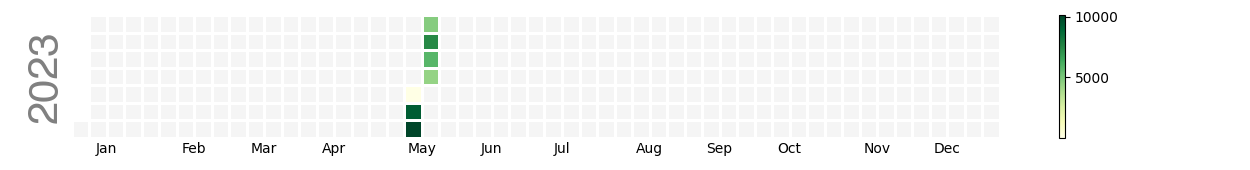
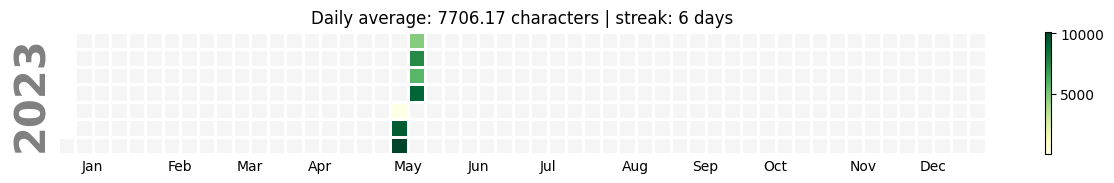
update

diff --git a/src/markdown/projects/jpcharalog.md b/src/markdown/projects/jpcharalog.md
@@ -26,12 +26,10 @@ plt.show()
 ```
 with *values* being the second column of the following text file:
 ```
-2023-05-11	0
-2023-05-12	1
 2023-05-13	9230
 2023-05-14	10139
 2023-05-15	4716
 2023-05-16	7410
 2023-05-17	5789
-2023-05-18	4361
+2023-05-18	8952
 ```
